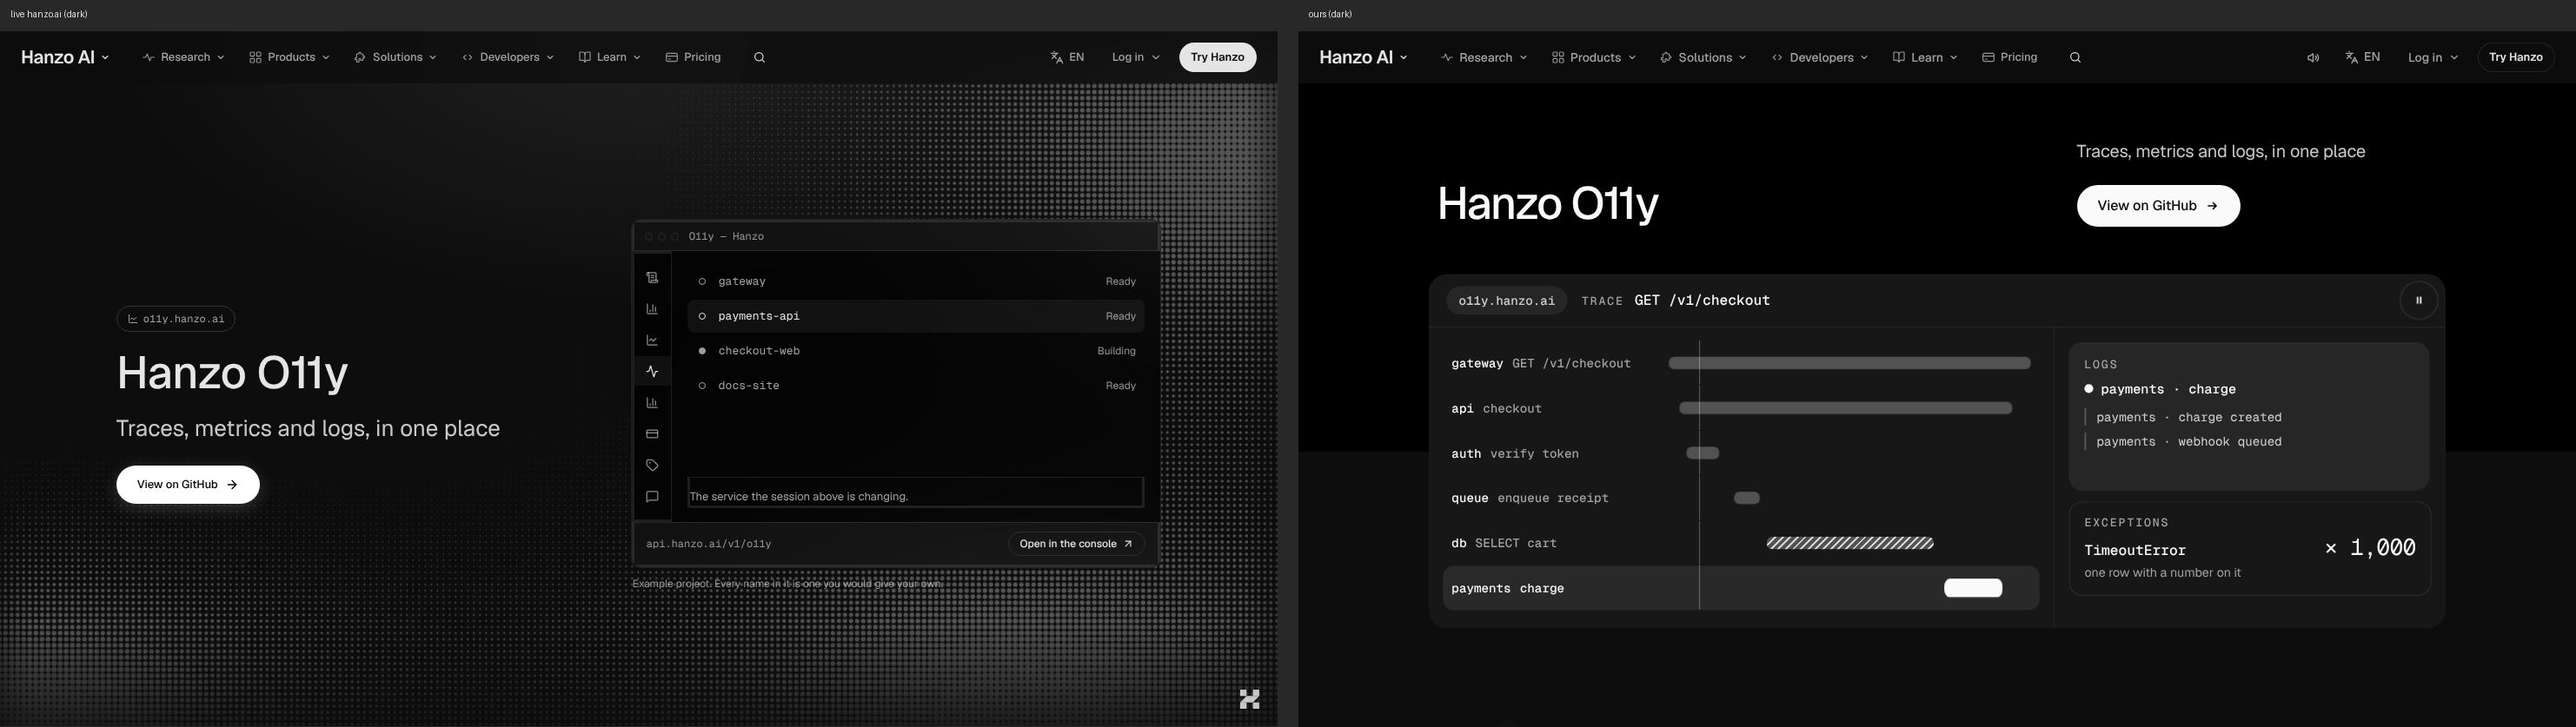
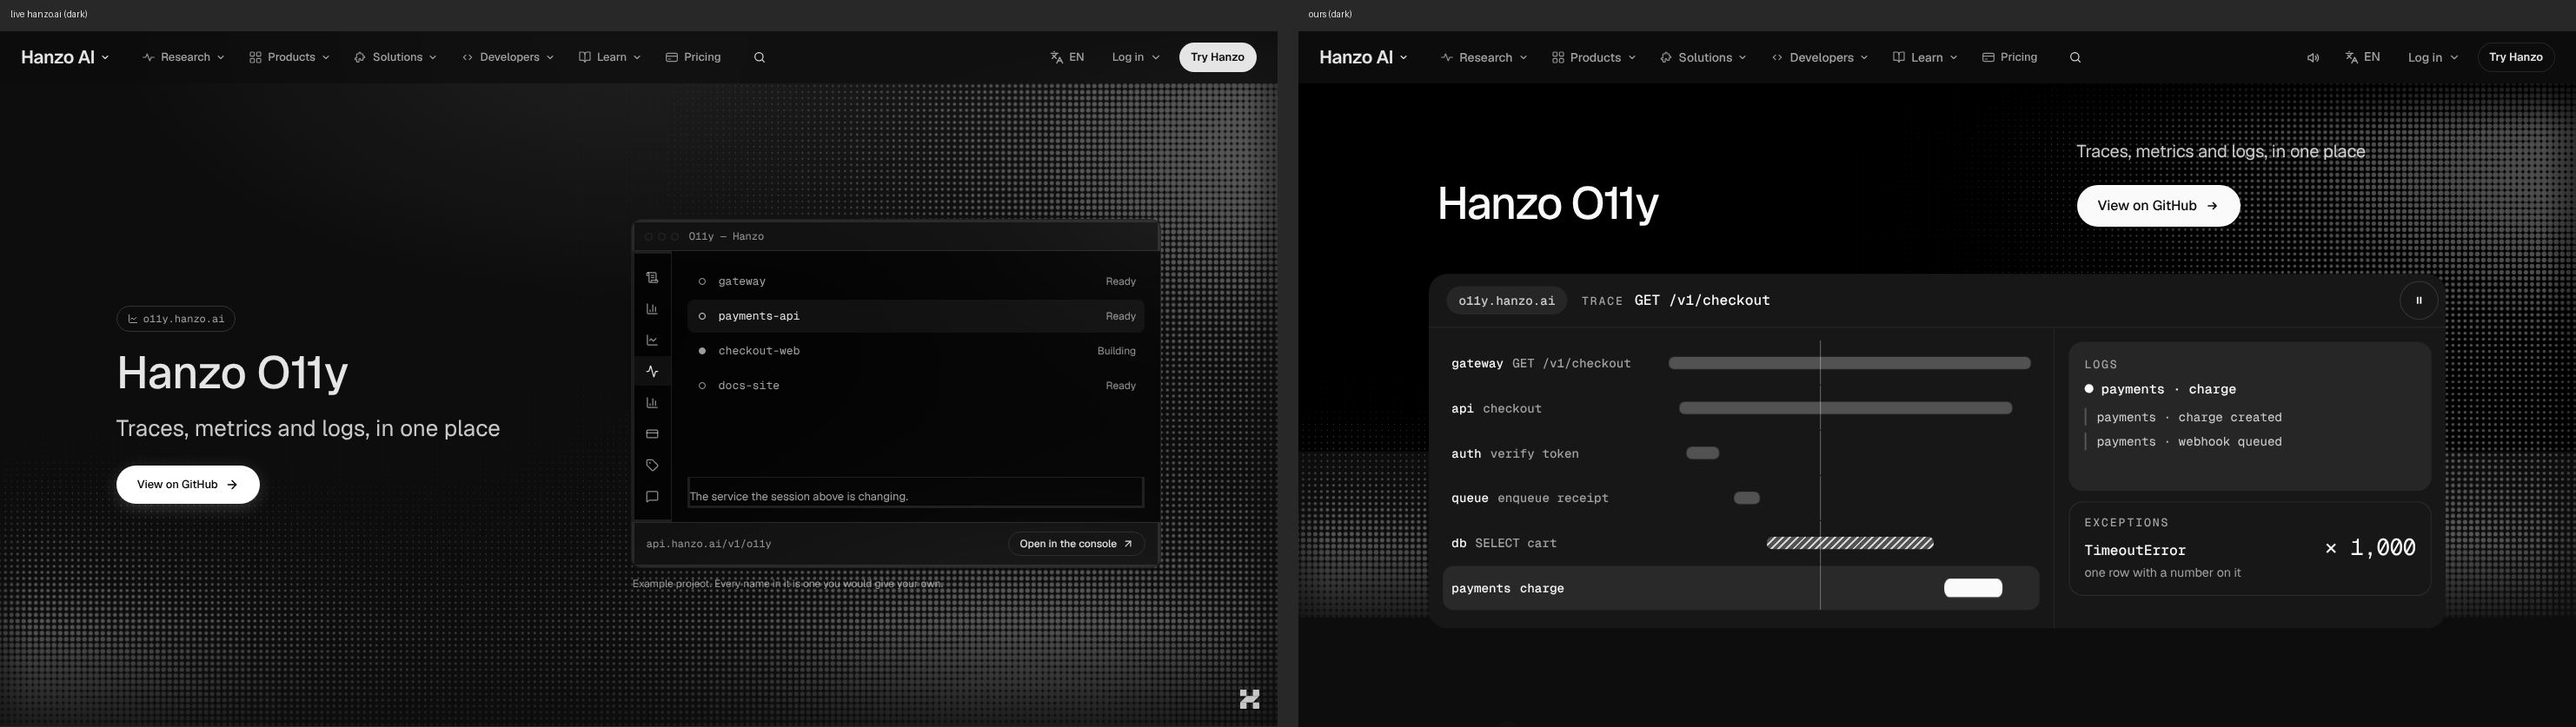
o11y: dark mode — live's hero halftone (HeroDither) under the hero in dark; checks re-run (darkcheck, lightcheck OK, copycheck 0, 0 errors, no sideways scroll)
Claude-Session: https://claude.ai/code/session_01P5YBdv7StJZXmK5oNtoxtW

Changed region(s): [[0.8381, 0.1243, 1.0, 0.8387], [0.4966, 0.6523, 0.5587, 0.8387]]

diff --git a/components/pages/cloud/O11y.jsx b/components/pages/cloud/O11y.jsx
@@ -28,6 +28,7 @@ import LineMask from '../../v2/LineMask';
 import O11yConsole from './O11yConsole';
 import LivePause from '../../v2/LivePause';
 import RelatedCards from '../../v2/RelatedCards';
+import HeroDither from '../HeroDither';
 import { A } from '../../kit';
 import './O11y.css';
 
@@ -296,6 +297,7 @@ export default function O11y() {
   return (
     <main className="lx ob">
       <section className="lx-dark ob-hero" data-room="dark" data-morph-target data-ask-name="Hanzo O11y">
+        <HeroDither />
         <div className="lx-wrap ob-hero-head">
           <LineMask as="h1" className="lx-display ob-h1" lines={['Hanzo O11y']} />
           <div className="ob-hero-r">

diff --git a/docs/review/o11y.md b/docs/review/o11y.md
@@ -2,7 +2,7 @@
 
 Verdict: 8/10
 Ready: 8 Nov, copycheck missing 0 of 31 (live hanzo.ai). The example console gives every project its own line as hanzo.ai does (payments-api: "The service the session above is changing.", docs-site: "Static, published by the same pipeline as the rest."; page-local copy of LaunchConsole), the agent prompt's chip reads "api /v1/o11y" whole, and the close's "hanzoai/o11y" is its own span beside "4 stars". taste/unique OK; 0 console errors, no overlap at 1470x801 and 375x812 (the sticky-stack cards report as overlapping because each covers the last; looked at, not real). Shared, not this page: docs/requests/o11y.md 5.
-Dark: 8 Nov, matches live hanzo.ai in dark side by side (docs/gallery/o11y/dark-*.jpg); darkcheck OK, lightcheck OK, copycheck 0. (darkcheck lists the Logs pane's caret: a light block in the graphite window in both modes. The shared .lx kit, Frame's light console, RelatedCards' art and the close art are pointed at Hanzo's tokens page-locally under .ob (the console's .light class is also Hanzo's light-theme class, so it reads the page's tokens); the cursor trail draws in the page's ink; the hero stays a black room.)
+Dark: 8 Nov, matches live hanzo.ai in dark side by side (docs/gallery/o11y/dark-*.jpg); darkcheck OK, lightcheck OK, copycheck 0. (darkcheck lists the Logs pane's caret: a light block in the graphite window in both modes. The shared .lx kit, Frame's light console, RelatedCards' art and the close art are pointed at Hanzo's tokens page-locally under .ob (the console's .light class is also Hanzo's light-theme class, so it reads the page's tokens); the cursor trail draws in the page's ink; the hero stays a black room.) Live's hero halftone (HeroDither, ported from hanzo.ai's own Dither) sits under the hero in dark, as live draws it; bright mode unchanged.
 First complaint: "Up top it's alive, but the bottom goes back to a document: two big port numbers, three chips, a console about builds and a prompt box all on one screen. And on my phone the top button says Try Hanzo and the bar says View on GitHub. Which one do I press?"
 
 Walked moving at 1470x801 (fine pointer, hover on) and 375x812, cookie bar dismissed, screenshots 1 s apart on every screen, wheel-scrolled with a video and a layout-shift observer. Parity: `/o11y: OK  text 58/58  links 12/12`. Proof: `img/o11y-hero.jpg` (the hero at rest), `img/o11y-otlp.jpg` (the OTLP room).
